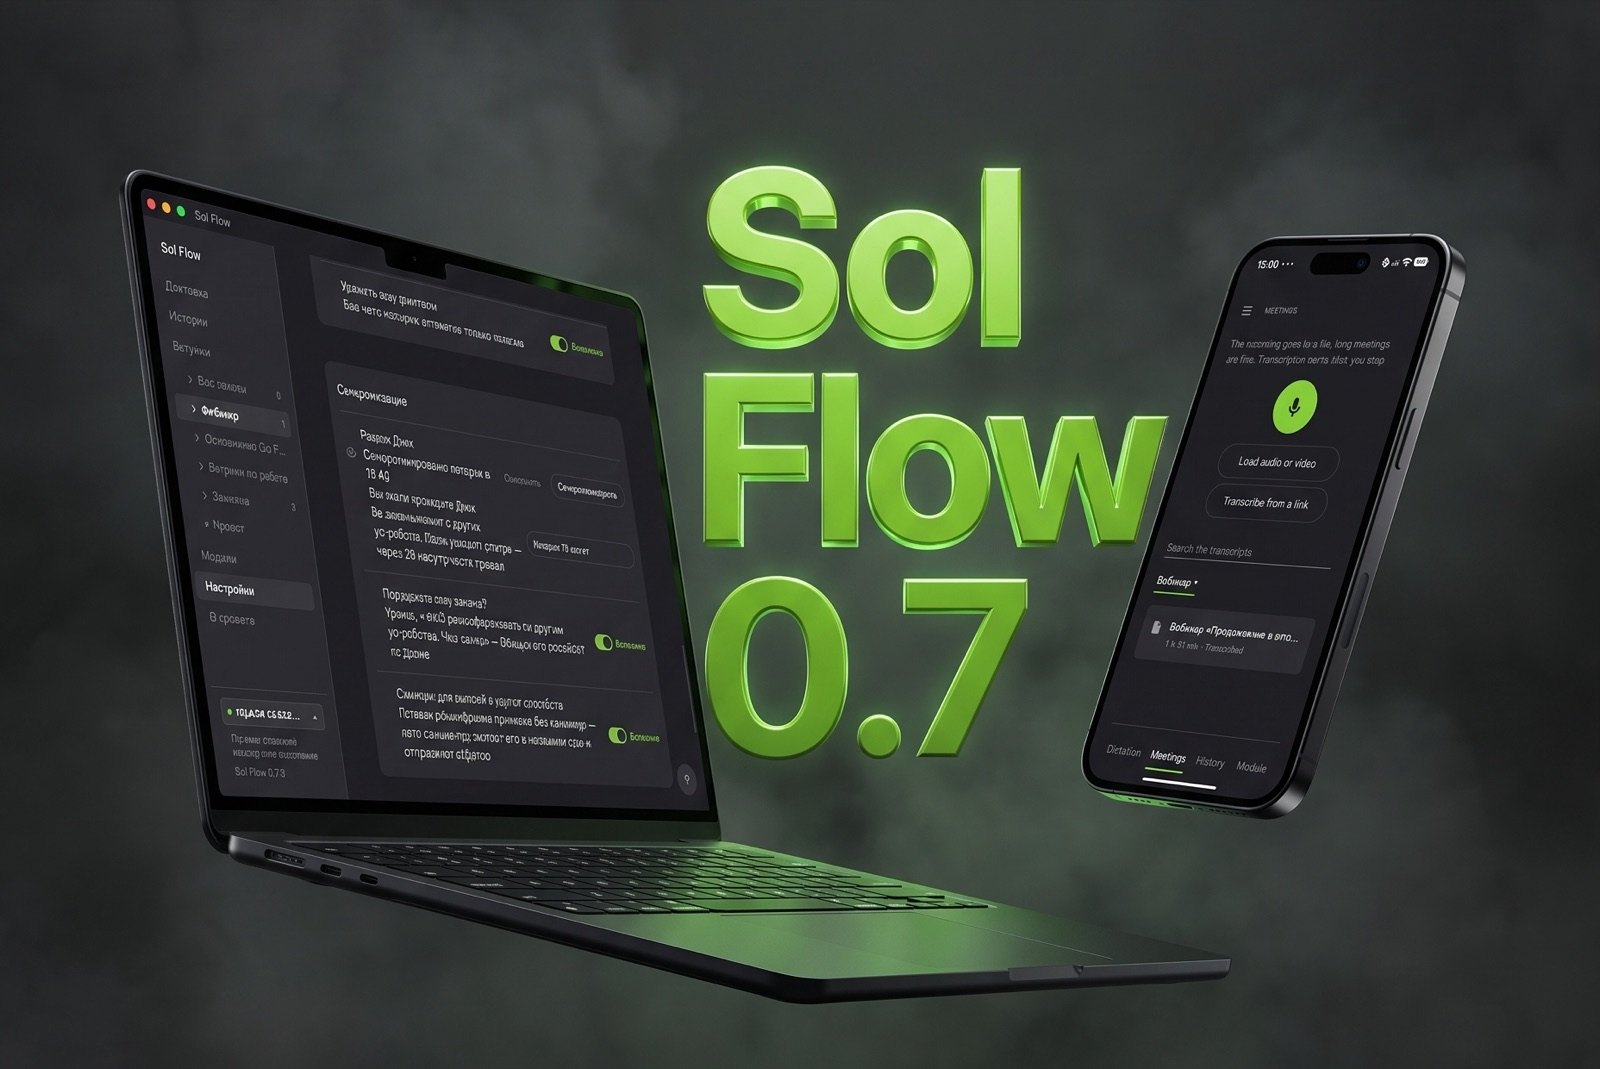
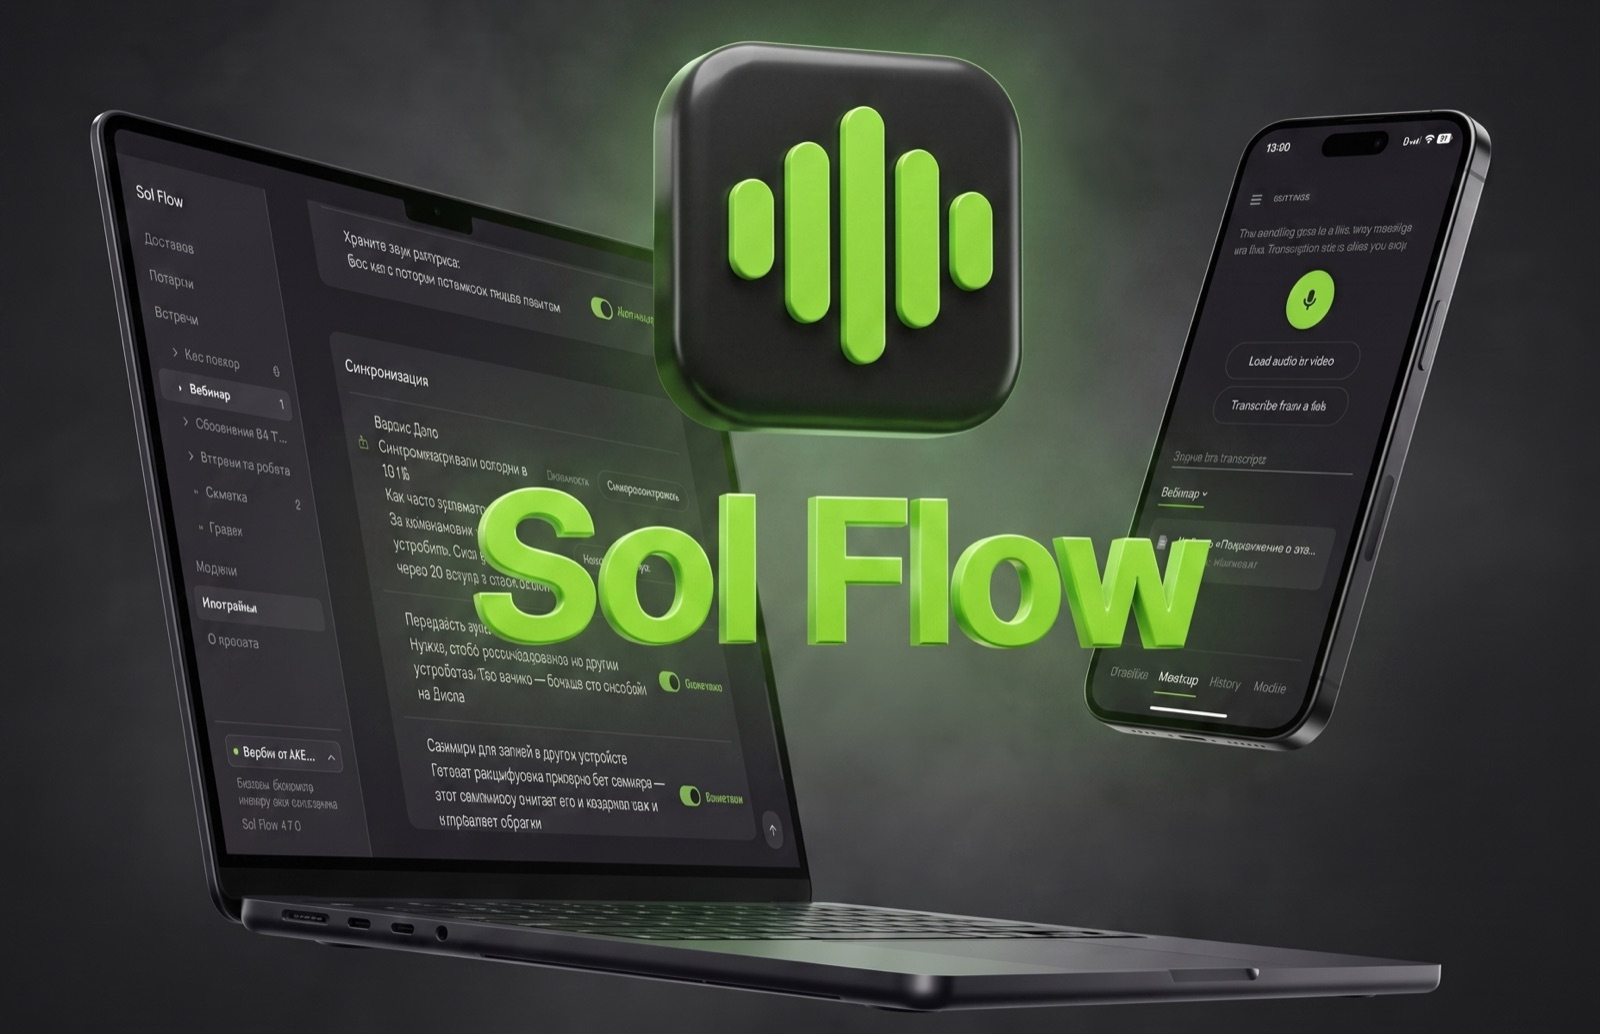
README: универсальная обложка без версии и состав возможностей 0.9
Обложка — новая, без номера версии в кадре. В «Что умеет» добавлены звук
записей, папка экспорта, чистые расшифровки; вопрос, разборы и перевод
стоят рядом с конспектом; «Как пользоваться» получил абзац о модели на
борту и синхронизацию через облако на выбор. Различия платформ дополнены.

diff --git a/README.md b/README.md
@@ -55,7 +55,8 @@ Microsoft, поэтому при первом запуске система за
   сообщения — автоматизировать.
 - **Встречи.** Запись часами с паузой, расшифровка после остановки с
   разметкой по времени, поиск по всем записям с переходом на нужную реплику.
-  Расшифровки идут по очереди, любую работу можно отменить.
+  Мычание вроде «э-э» и «а-а» в расшифровку не попадает. Расшифровки идут
+  по очереди, любую работу можно отменить.
 - **Говорящие.** Разделение по голосам: приложение сравнивает тембры, а не
   слова, поэтому работает на любом языке. Говорящих можно переименовать,
   имена уходят в экспорт.
@@ -63,6 +64,17 @@ Microsoft, поэтому при первом запуске система за
   собирает из расшифровки подробный конспект по темам и придумывает записи
   название по содержанию. Модель скачивается один раз по подтверждению,
   на Windows считает видеокарта NVIDIA или AMD.
+- **Вопрос к записи.** На Mac и Windows под конспектом есть поле: «что
+  решили по бюджету», «какие сроки назвал Сергей». Отвечает та же локальная
+  модель, метки времени в ответе ведут к репликам.
+- **Тип записи и разборы.** Модель определяет, что перед ней: встреча,
+  вебинар или лекция, интервью или подкаст. Под тип подстраиваются конспект
+  и меню «Разобрать»: решения и задачи, письмо по итогам, оглавление с
+  таймкодами, тезисы, советы, кейсы и цифры, вопросы и ответы, цитаты,
+  о собеседнике, глоссарий, пересказ для поста.
+- **Перевод.** На Mac и Windows расшифровку и конспект можно перевести на
+  один из двенадцати языков той же локальной моделью; перевод показывается
+  вместо оригинала и уходит в экспорт.
 - **Проекты.** Записи раскладываются по папкам; перетащили запись на
   «+ Проект» — папка создалась.
 - **Синхронизация через ваше облако.** Яндекс.Диск или Google Drive на
@@ -70,22 +82,13 @@ Microsoft, поэтому при первом запуске система за
   проекты одинаковы на телефоне и компьютере: телефон записал и расшифровал,
   компьютер посчитал конспект и название и вернул их обратно. Звук
   передается отдельным переключателем.
-- **Перевод.** На Mac и Windows расшифровку и саммери можно перевести на
-  один из двенадцати языков той же локальной моделью; перевод показывается
-  вместо оригинала и уходит в экспорт.
 - **Свои записи.** Импорт аудио и видео с диска, расшифровка по ссылке
   (на компьютере — в том числе YouTube и VK через отдельный загрузчик).
 - **Экспорт.** txt, markdown, pdf и docx; несколько встреч — отдельными
-  файлами или одним; отдельно конспект и звук в wav. На телефоне есть
-  системное «Поделиться».
-- **Вопрос к записи.** На Mac и Windows под саммери есть поле: «что решили
-  по бюджету», «какие сроки назвал Сергей». Отвечает та же локальная
-  модель, метки времени в ответе ведут к репликам.
-- **Тип записи и разборы.** Модель определяет, что перед ней: встреча,
-  вебинар или лекция, интервью или подкаст. Под тип подстраиваются саммери
-  и меню «Разобрать»: решения и задачи, письмо по итогам, оглавление с
-  таймкодами, тезисы, советы, кейсы и цифры, вопросы и ответы, цитаты,
-  о собеседнике, глоссарий, пересказ для поста.
+  файлами или одним; отдельно конспект и звук в wav. Папку экспорта можно
+  выбрать на всех платформах. На телефоне есть системное «Поделиться».
+- **Звук записей.** Хранить или удалять сразу после расшифровки; кнопка
+  «Удалить звук готовых записей» освобождает место разом.
 - **Каталог моделей.** Полсотни моделей на сто с лишним языков с поиском и
   фильтром по языку; скачивание в фоне, несколько сразу, с отменой.
 - **Обновления.** Приложение проверяет новую версию, сообщает уведомлением
@@ -102,13 +105,20 @@ Microsoft, поэтому при первом запуске система за
 на Android — из шторки уведомлений. После остановки расшифровка запускается
 сама; в открытой встрече — говорящие, конспект, поиск по тексту, экспорт.
 
-**Модели.** Несколько моделей могут лежать рядом, переключение — секунды.
-На телефонах с Qualcomm и Samsung берите вариант F16: он быстрее сжатого
-Q4, потому что процессор считает fp16 напрямую.
+**Модель на борту.** На Mac и Windows первый конспект, вопрос или разбор
+предложит скачать языковую модель, около 2,5 ГБ, один раз. Дальше все
+считается на компьютере: тип записи определяется сам после расшифровки,
+меню «Разобрать» и «Перевести» — в открытой встрече, поле вопроса — под
+конспектом. Долгая запись считается минуты, полоса прогресса с отменой.
 
-**Синхронизация.** Настройки → «Подключить» Яндекс.Диск: код входа сразу в
-буфере обмена, три шага в одном окне. Данные лежат в папке приложения на
-вашем Диске, обмен идет напрямую между вашими устройствами и Диском.
+**Модели распознавания.** Несколько моделей могут лежать рядом, переключение
+— секунды. На телефонах с Qualcomm и Samsung берите вариант F16: он быстрее
+сжатого Q4, потому что процессор считает fp16 напрямую.
+
+**Синхронизация.** Настройки → «Облако» → Яндекс.Диск или Google Drive: код
+входа сразу в буфере обмена, три шага в одном окне. Данные лежат в папке
+приложения в вашем облаке, обмен идет напрямую между вашими устройствами и
+облаком. Одно облако за раз; сменить — «Отключить» и подключить другое.
 
 ## Про модели
 
@@ -167,8 +177,9 @@ cd desktop/src-tauri && cargo tauri build
 
 ## Осознанные различия платформ
 
-- Конспект и автоназвания считает только десктоп: языковая модель на
-  телефоне слишком тяжела. Телефон получает их через синхронизацию.
+- Конспект, автоназвания, вопрос к записи, разборы и перевод считает только
+  десктоп: языковая модель на телефоне слишком тяжела. Конспект и название
+  телефон получает через синхронизацию.
 - «Поделиться» есть только на Android, на компьютере — экспорт в файл.
 - Расшифровка YouTube и VK — только на компьютере (нужен yt-dlp).
 

diff --git a/README.en.md b/README.en.md
@@ -57,7 +57,8 @@ finds updates itself and offers to install them.
   be automated.
 - **Meetings.** Hours of recording with pause, transcription after you stop
   with time markers, search across all recordings that jumps to the exact
-  line. Transcriptions run in a queue; any job can be cancelled.
+  line. Hesitations like "uh" and "um" stay out of the transcript.
+  Transcriptions run in a queue; any job can be cancelled.
 - **Speakers.** Diarization by voice: the app compares timbres rather than
   words, so it works in any language. Speakers can be renamed, the names go
   into the export.
@@ -65,21 +66,6 @@ finds updates itself and offers to install them.
   transcript into a detailed summary by topic and names the recording by its
   content. The model downloads once on your confirmation; on Windows the
   NVIDIA or AMD graphics card does the computing.
-- **Projects.** Recordings go into folders; drag a recording onto
-  "+ Project" and the folder is created.
-- **Sync through your own cloud.** Yandex.Disk or Google Drive, signing in
-  with a short code; the app has no server of its own. Meetings and projects
-  are the same on the phone and the computer: the phone records and
-  transcribes, the computer writes the summary and the title and sends them
-  back. Audio is sent by a separate switch.
-- **Translation.** On Mac and Windows the transcript and summary can be
-  translated into one of twelve languages by the same local model; the
-  translation is shown in place of the original and goes into the export.
-- **Your own recordings.** Import audio and video from disk, transcribe by
-  link (on the computer also YouTube and VK through a separate downloader).
-- **Export.** txt, markdown, pdf and docx; several meetings as separate
-  files or one; the summary and the wav audio separately. The phone has the
-  system Share sheet.
 - **Ask the recording.** On Mac and Windows there is a field under the
   summary: "what was decided about the budget", "which deadlines did Sergey
   name". The same local model answers, and the times in the answer lead to
@@ -90,6 +76,23 @@ finds updates itself and offers to install them.
   follow-up letter, an outline with timecodes, key points, advice, cases and
   numbers, questions and answers, quotes, about the guest, a glossary, a
   recap for a post.
+- **Translation.** On Mac and Windows the transcript and summary can be
+  translated into one of twelve languages by the same local model; the
+  translation is shown in place of the original and goes into the export.
+- **Projects.** Recordings go into folders; drag a recording onto
+  "+ Project" and the folder is created.
+- **Sync through your own cloud.** Yandex.Disk or Google Drive, signing in
+  with a short code; the app has no server of its own. Meetings and projects
+  are the same on the phone and the computer: the phone records and
+  transcribes, the computer writes the summary and the title and sends them
+  back. Audio is sent by a separate switch.
+- **Your own recordings.** Import audio and video from disk, transcribe by
+  link (on the computer also YouTube and VK through a separate downloader).
+- **Export.** txt, markdown, pdf and docx; several meetings as separate
+  files or one; the summary and the wav audio separately. The export folder
+  can be chosen on every platform. The phone has the system Share sheet.
+- **Recording audio.** Keep it or delete it right after transcription; a
+  "Delete audio of finished recordings" button frees space at once.
 - **Model catalogue.** Fifty models covering a hundred and three languages,
   with search and a language filter; downloads run in the background,
   several at once, with cancel.
@@ -108,15 +111,23 @@ Android from the notification shade. After you stop, transcription starts
 by itself; inside an open meeting — speakers, summary, search in the text,
 export.
 
-**Models.** Several models can sit side by side, switching takes seconds.
-On phones with Qualcomm and Samsung processors take the F16 variant: it is
-faster than the compressed Q4, because the processor computes fp16
-directly.
+**The on-board model.** On Mac and Windows the first summary, question or
+breakdown offers to download a language model, about 2.5 GB, once. From
+then on everything is computed on the computer: the recording type is
+detected after transcription, the "Break down" and "Translate" menus live in
+the open meeting, the question field sits under the summary. A long
+recording takes minutes, with a progress bar and cancel.
 
-**Sync.** Settings → Connect Yandex.Disk: the login code is copied to the
-clipboard at once, three steps in one window. The data lives in the app's
-folder on your Disk; the exchange goes directly between your devices and
-the Disk.
+**Recognition models.** Several models can sit side by side, switching takes
+seconds. On phones with Qualcomm and Samsung processors take the F16
+variant: it is faster than the compressed Q4, because the processor computes
+fp16 directly.
+
+**Sync.** Settings → Cloud → Yandex.Disk or Google Drive: the login code is
+copied to the clipboard at once, three steps in one window. The data lives
+in the app's folder in your cloud; the exchange goes directly between your
+devices and the cloud. One cloud at a time; to switch, disconnect and
+connect the other.
 
 ## About the models
 
@@ -176,9 +187,9 @@ the apps update themselves from.
 
 ## Deliberate platform differences
 
-- Summaries and automatic titles are computed only on the desktop: the
-  language model is too heavy for a phone. The phone receives them through
-  sync.
+- Summaries, automatic titles, asking the recording, breakdowns and
+  translation are computed only on the desktop: the language model is too
+  heavy for a phone. The phone receives summaries and titles through sync.
 - The Share sheet exists only on Android; on the computer — export to a
   file.
 - Transcribing YouTube and VK — only on the computer (needs yt-dlp).
